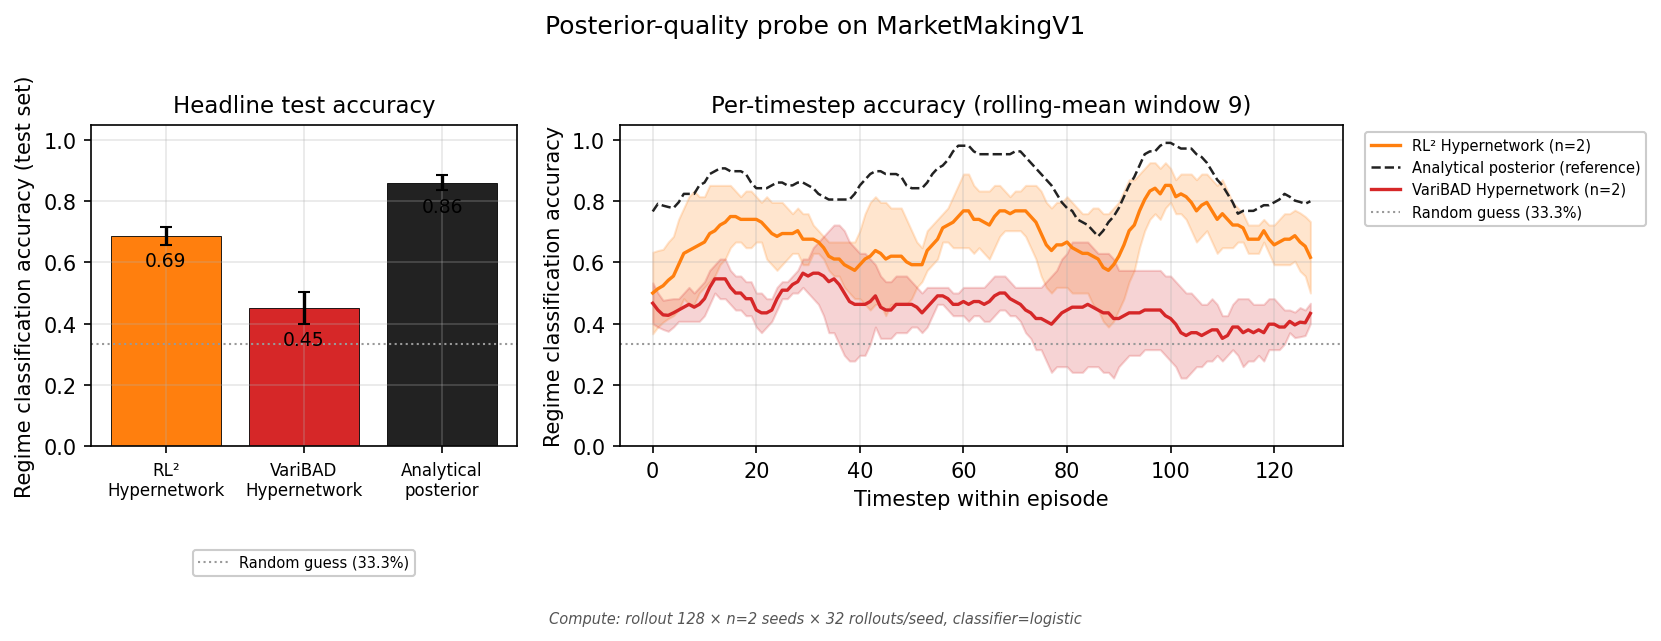
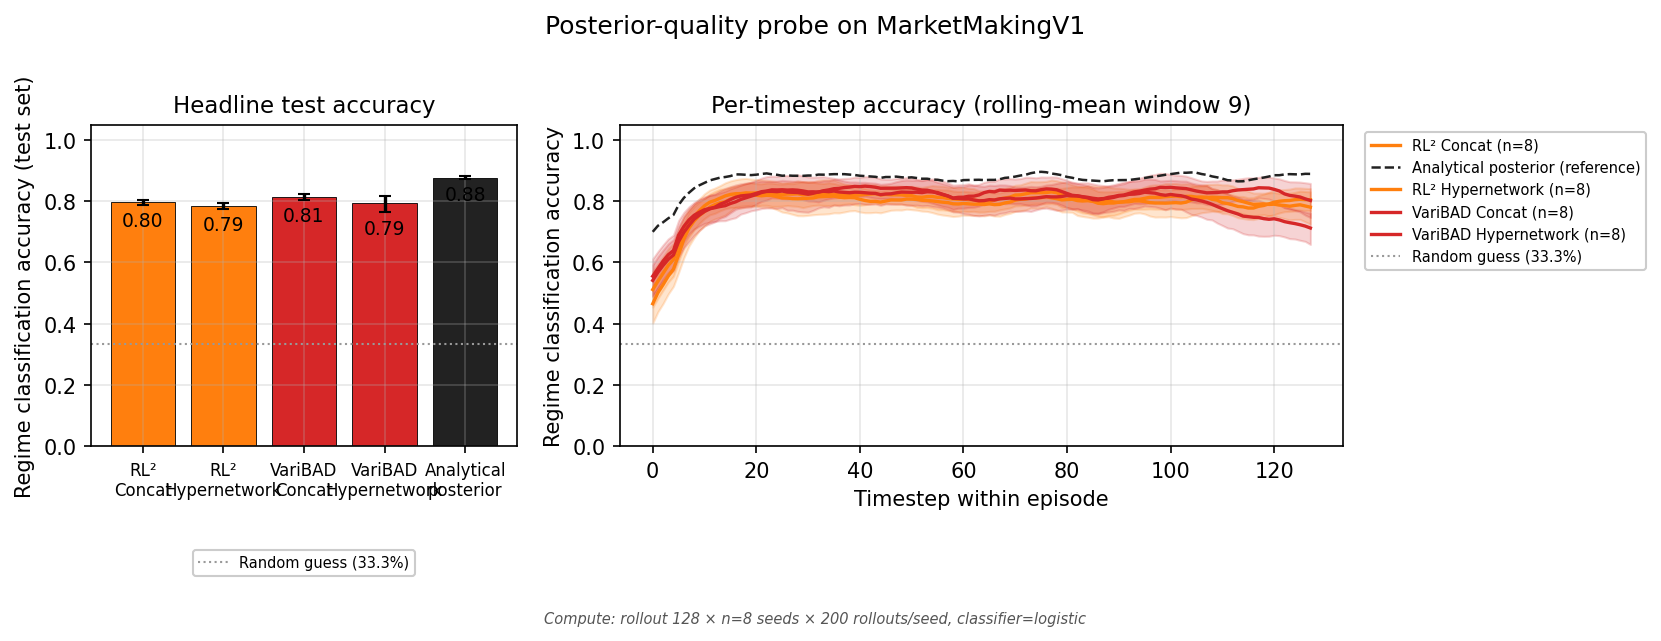
M5 Step 4 close-out: full-budget ladder + probe results
Stage 1 (4 cells × 8 seeds × 200 iter, 148 min wall) and Stage 2
(posterior probe, 4 cells × 8 seeds) complete. Both primary
hypotheses (hypernet > concat) supported with Holm-corrected p=0.0156,
|Δ|≈45-55, LOO-robust.

Headline:
  RL² hypernet:     168.56 (gap_closed_vs_belief = 1.00)
  VariBAD hypernet: 166.80 (gap_closed_vs_belief = 0.95)
  RL² concat:       124.07 (below floor)
  VariBAD concat:   110.32 (below floor)

Probe shows belief decodability is equivalent across concat and
hypernet (0.79-0.81 vs analytical 0.88) — integration is the
bottleneck, not belief inference. This is the decoupling finding
worth highlighting in the thesis.

ranking_stable is false (5/8 seeds; threshold 7/8) but the instability
is confined to the two hypernet cells which are statistically tied;
the hypernet ≫ concat partition is stable across every seed. Tag
m5-passed held for manual review.

Plot fix: step4_ladder.png now has value labels below each lower CI
cap, matching the convention in docs/plotting.md.

Stats JSON + STEP4_FINDINGS.md live under results/milestones/M5/
(gitignored). CLAUDE.md status row updated.

diff --git a/plotting/m5_plots.py b/plotting/m5_plots.py
@@ -540,6 +540,15 @@ def plot_step4_ladder(out_path: Path) -> bool:
         for bar, m in zip(bars, methods):
             bar.set_facecolor(COLORS[m])
             bar.set_alpha(alpha)
+        # Value labels inside each bar, just below the lower CI cap so they
+        # don't overlap the vertical CI line. Skip NaN bars.
+        for xi, mean, e in zip(x, means, errs):
+            if np.isnan(mean):
+                continue
+            lo_abs = mean - e[0]
+            ax.annotate(f"{mean:.1f}", xy=(xi, lo_abs),
+                        xytext=(0, -3), textcoords="offset points",
+                        ha="center", va="top", fontsize=8, color="black")
     # Build legend manually with proxy artists so every coloured bar
     # combination is documented (method × integration), not just one axis.
     from matplotlib.patches import Patch

diff --git a/CLAUDE.md b/CLAUDE.md
@@ -86,7 +86,7 @@ These are the non-negotiable rules. Full discussion in `docs/conventions.md`.
 - [x] M2 — regime-switching env, R1–R4 verified on E6e_symmetric_kappa05 (current E_final; E2/E3 also passed)
 - [x] M3 — reference levels on E6e (agnostic=136.2, belief=168.5, oracle=180.1; gap=43.9, compromise=32.3 / inference=11.6)
 - [x] M4 — implementation validation (RL² & VariBAD clear PPO floor on bandit/gridworld/regime_bandit at full budget; see `results/milestones/M4/method_ranking.json`)
-- [ ] M5 — ladder + factorial on MM (answers RQ2). Stage A failed initial pass (2026-04-25); see `results/milestones/M5/RECOVERY_PLAN.md`. Step 1 diagnostic + Step 2 sweep + Step 3 hypernet/exploration_bonus modules + 24-config toy factorial done. **Step-3 MM hypernet probe (n=3 × 100 iter, 2026-04-26): RL² hypernet 163.24, VariBAD hypernet 163.13 — both +25 above floor, both at 83% of compromise-policy gap closed, both within 5 of belief-PPO (168.50).** From "RL² ties floor / VariBAD plateaus at 100" to "both essentially match belief-PPO" via a single architectural switch. Pending full-budget n=8 confirmation. See `STEP3_MM_HYPERNET_FINDINGS.md`.
+- [ ] M5 — ladder + factorial on MM (answers RQ2). Stage A failed initial pass (2026-04-25); recovery via Steps 1-5. **Step-4 full-budget 4-cell factorial complete (n=8 × 200 iter, 2026-04-27)**: RL² hypernet **168.56** / VariBAD hypernet **166.80** (both at Belief-PPO ceiling 168.5, +30-32 above floor 136.2, gap_closed_vs_belief 0.95-1.00); RL² concat 124.07 / VariBAD concat 110.32 (both below floor). Both primary hypotheses (`hypernet_beats_concat`) supported with Holm-corrected p=0.0156, |Δ|≈45-55, robust to LOO. **Posterior probe**: all 4 cells decode regime at 0.79-0.81 vs analytical 0.88 — concat and hypernet have equivalent belief decodability, integration is the bottleneck (decoupling finding). `ranking_stable: false` (5/8 seeds — instability between the two hypernet cells which are tied within seed noise); decisive scientific claims robust. Tag `m5-passed` held for manual review. See `STEP4_FINDINGS.md`.
 - [ ] M6 — difficulty sweep + decoupling (answers RQ3)
 - [ ] M7 — supplementary ablations (optional)
 
